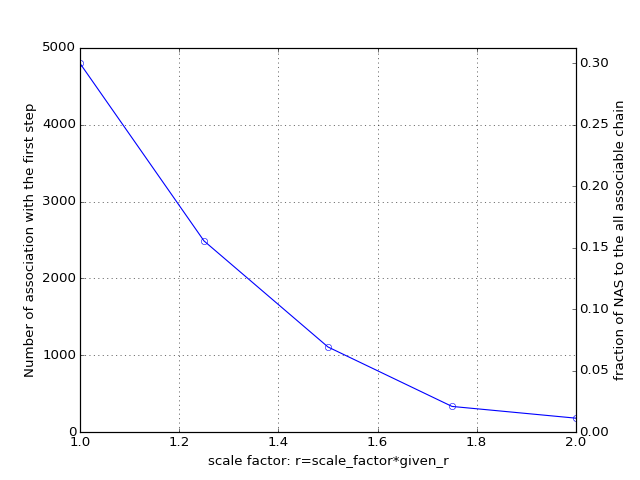
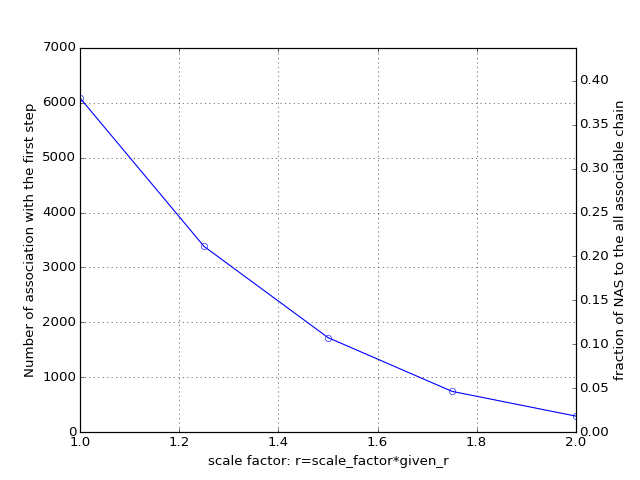
update:report:controls_statistics:scaled_distance

diff --git a/reports/controls_statistics/test_scale_factor.py b/reports/controls_statistics/test_scale_factor.py
@@ -4,24 +4,24 @@
 from numpy import *
 import matplotlib.pyplot as plt
 
-dat = asarray([[1.0, 4800],
-               [1.25, 2488],
-               [1.5, 1107],
-               [1.75, 333],
-               [2.0, 180]])
+dat = asarray([[1.0, 6089],
+               [1.25, 3384],
+               [1.5, 1721],
+               [1.75, 741],
+               [2.0, 289]])
 
 
 plt.clf()
 plt.ion()
 ax = plt.subplot(111)
 ax.plot(dat[:,0], dat[:,1], 'bo', markerfacecolor='white', markeredgecolor='blue')
-ax.axis([1, 2, 0, 5000])
+ax.axis([1, 2, 0, 7000])
 ax.set_xlabel('scale factor: r=scale_factor*given_r')
 ax.set_ylabel('Number of association with the first step')
 ax.grid()
 ax2 = ax.twinx()
 ax2.plot(dat[:,0], dat[:,1]/(25*640), 'b-')
-ax2.axis([1, 2, 0./(25.*640.), 5000./(25.*640.)])
+ax2.axis([1, 2, 0./(25.*640.), 7000./(25.*640.)])
 ax2.set_ylabel('fraction of NAS to the all associable chain')
 
 plt.show()
